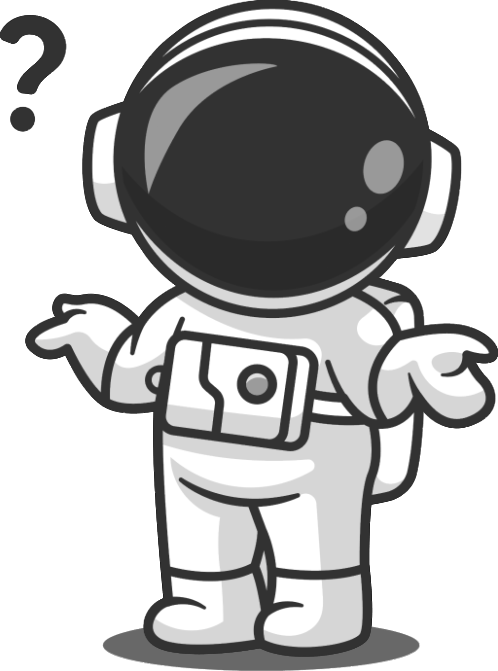
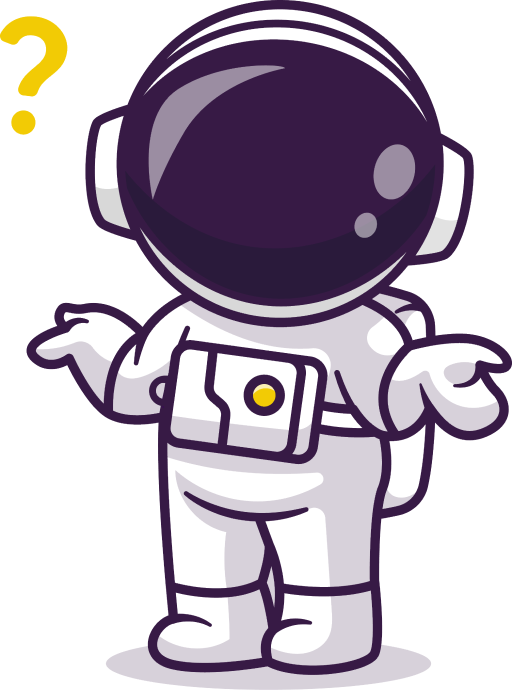
v2.0.1

diff --git a/lib/pages/search_page.dart b/lib/pages/search_page.dart
@@ -127,23 +127,39 @@ class _SearchPageState extends ConsumerState<SearchPage> {
                   ),
                   SizedBox(height: size.height * .01),
                   dbRiv.searchListTile?.length == 0 || dbRiv.searchListTile == null
-                      ?Padding(
-                        padding:  EdgeInsets.only(top: size.height * .01),
-                        child: Container(
-                          padding: const EdgeInsets.all(8),
-                          decoration: BoxDecoration(
-                            color: Theme.of(context).disabledColor,
-                            borderRadius: BorderRadius.circular(12),
-                          ),
-                          child: Text(
-                            translation(context).noMatchData,
-                            style: const TextStyle(
-                                color: Colors.black,
-                                fontFamily: "Nexa3",
-                                height: 1
+                      ?Column(
+                        children: [
+                          Container(
+                            padding: EdgeInsets.all(17),
+                            decoration: BoxDecoration(
+                              color: Theme.of(context).highlightColor,
+                              shape: BoxShape.circle,
+                            ),
+                            child: Image.asset(
+                              "assets/image/noInfo6.png",
+                              width: 100,
+                              height: 100,
                             ),
                           ),
-                        ),
+                          Padding(
+                            padding:  EdgeInsets.only(top: size.height * .01),
+                            child: Container(
+                              padding: const EdgeInsets.all(8),
+                              decoration: BoxDecoration(
+                                color: Theme.of(context).highlightColor,
+                                borderRadius: BorderRadius.circular(12),
+                              ),
+                              child: Text(
+                                translation(context).noMatchData,
+                                style: const TextStyle(
+                                    color: Colors.white,
+                                    fontFamily: "Nexa3",
+                                    height: 1
+                                ),
+                              ),
+                            ),
+                          ),
+                        ],
                       )
                     :Padding(
                     padding: EdgeInsets.symmetric(horizontal: size.width * .04),

diff --git a/lib/pages/more/backup.dart b/lib/pages/more/backup.dart
@@ -234,13 +234,13 @@ class _BackUpState extends ConsumerState<BackUp> {
                                       await readGglAuth.downloadFileToDevice();
                                       Navigator.of(context).pop();
                                       ScaffoldMessenger.of(context).showSnackBar(
-                                        const SnackBar(
+                                        SnackBar(
                                           backgroundColor:
                                           const Color(0xff0D1C26),
                                           duration: const Duration(seconds: 1),
                                           content: Text(
-                                            "Verileriniz İndirildi",
-                                            style: TextStyle(
+                                            translation(context).downloadData,
+                                            style: const TextStyle(
                                               color: Colors.white,
                                               fontSize: 16,
                                               fontFamily: 'Nexa3',
@@ -329,12 +329,12 @@ class _BackUpState extends ConsumerState<BackUp> {
                                         Navigator.of(context).pop();
 
                                         ScaffoldMessenger.of(context).showSnackBar(
-                                          const SnackBar(
+                                          SnackBar(
                                             backgroundColor: const Color(0xff0D1C26),
                                             duration: const Duration(seconds: 1),
                                             content: Text(
-                                              "Verileriniz Yedeklendi",
-                                              style: TextStyle(
+                                              translation(context).backupedData,
+                                              style: const TextStyle(
                                                 color: Colors.white,
                                                 fontSize: 16,
                                                 fontFamily: 'Nexa3',

diff --git a/lib/UI/history_asset.dart b/lib/UI/history_asset.dart
@@ -82,7 +82,7 @@ class _HistoryAsset extends ConsumerState<HistoryAsset> {
                                       mainAxisAlignment: MainAxisAlignment.center,
                                       children: [
                                         Image.asset(
-                                          "assets/image/noInfo.png",
+                                          "assets/image/noInfo5.png",
                                           width: 75,
                                           height: 75,
                                         ),
@@ -209,7 +209,7 @@ class _HistoryAsset extends ConsumerState<HistoryAsset> {
                                         mainAxisAlignment: MainAxisAlignment.center,
                                         children: [
                                           Image.asset(
-                                            "assets/image/noInfo.png",
+                                            "assets/image/noInfo5.png",
                                             width: 75,
                                             height: 75,
                                           ),
@@ -334,7 +334,7 @@ class _HistoryAsset extends ConsumerState<HistoryAsset> {
                                         mainAxisAlignment: MainAxisAlignment.center,
                                         children: [
                                           Image.asset(
-                                            "assets/image/noInfo.png",
+                                            "assets/image/noInfo5.png",
                                             width: 75,
                                             height: 75,
                                           ),

diff --git a/lib/UI/daily_info.dart b/lib/UI/daily_info.dart
@@ -118,13 +118,10 @@ class _GunlukInfoState extends ConsumerState<GunlukInfo> {
                         mainAxisAlignment: MainAxisAlignment.center,
                         children: [
                           Image.asset(
-                            "assets/image/noInfo.png",
-                            width: 70,
-                            height: 70,
+                            "assets/image/noInfo4.png",
+                            width: 90,
+                            height: 90,
                             //color: Theme.of(context).canvasColor,
-                          ),
-                          const SizedBox(
-                            height: 6,
                           ),
                           SizedBox(
                             height: 22,

diff --git a/lib/pages/more/communicate.dart b/lib/pages/more/communicate.dart
@@ -85,7 +85,7 @@ class Communicate extends StatelessWidget {
                                   SnackBar(
                                       backgroundColor: const Color(0xff0D1C26),
                                       duration: const Duration(seconds: 1),
-                                      content: Text('Email Panoya Kopyalandı',style: TextStyle(color : Theme.of(context).canvasColor,fontFamily: 'Nexa3',fontSize: 15),)));
+                                      content: Text(translation(context).copiedToClipboard,style: TextStyle(color : renkler.yaziRenk,fontFamily: 'Nexa3',fontSize: 15),)));
                             },
                           )
                         ],

diff --git a/lib/pages/more/Help/help_page.dart b/lib/pages/more/Help/help_page.dart
@@ -801,7 +801,7 @@ class _HelpCenterState extends ConsumerState<HelpCenter> {
                               child: Padding(
                                 padding: const EdgeInsets.only(top: 2),
                                 child: Text(
-                                    "Android 2.0.0v ${translation(context).version2Title} (15.09.2023)",
+                                    "Android 2.0.1v ${translation(context).version2Title} (19.09.2023)",
                                     textDirection: TextDirection.ltr,
                                 ),
                               ),

diff --git a/lib/pages/more/assets_page.dart b/lib/pages/more/assets_page.dart
@@ -512,7 +512,7 @@ class _assetsPage extends ConsumerState<assetsPage> {
                                     mainAxisAlignment: MainAxisAlignment.center,
                                     children: [
                                       Image.asset(
-                                        "assets/image/noInfo.png",
+                                        "assets/image/noInfo5.png",
                                         width: 75,
                                         height: 75,
                                         //color: Theme.of(context).canvasColor,

diff --git a/lib/app/information_app.dart b/lib/app/information_app.dart
@@ -1,5 +1,5 @@
 class informationApp {
-  static String version = "2.0.0";
-  static String Date = "18.09.2023";
+  static String version = "2.0.1";
+  static String Date = "19.09.2023";
 
 }
